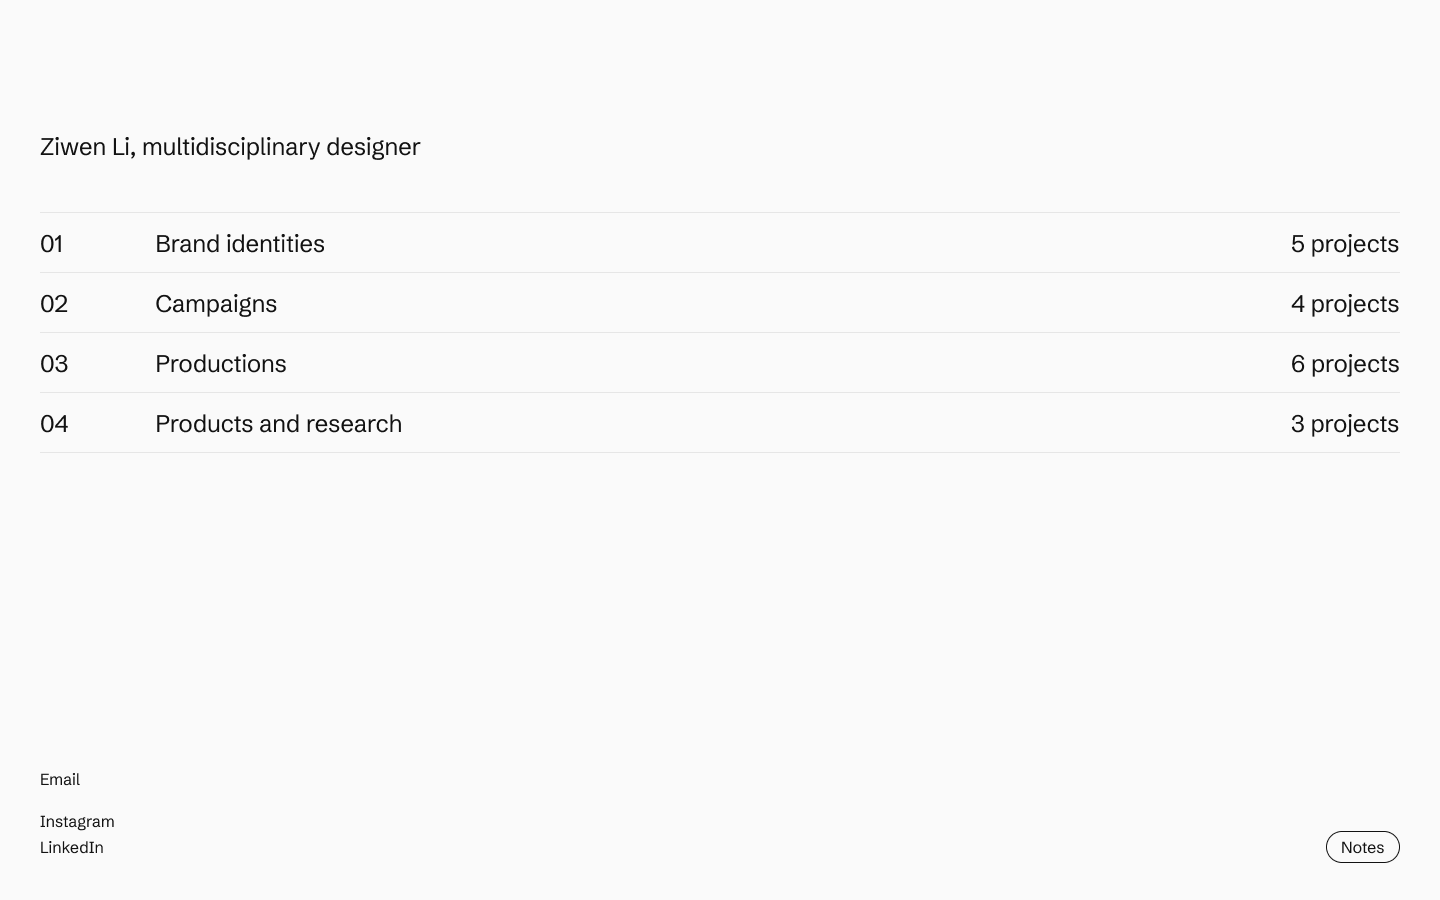
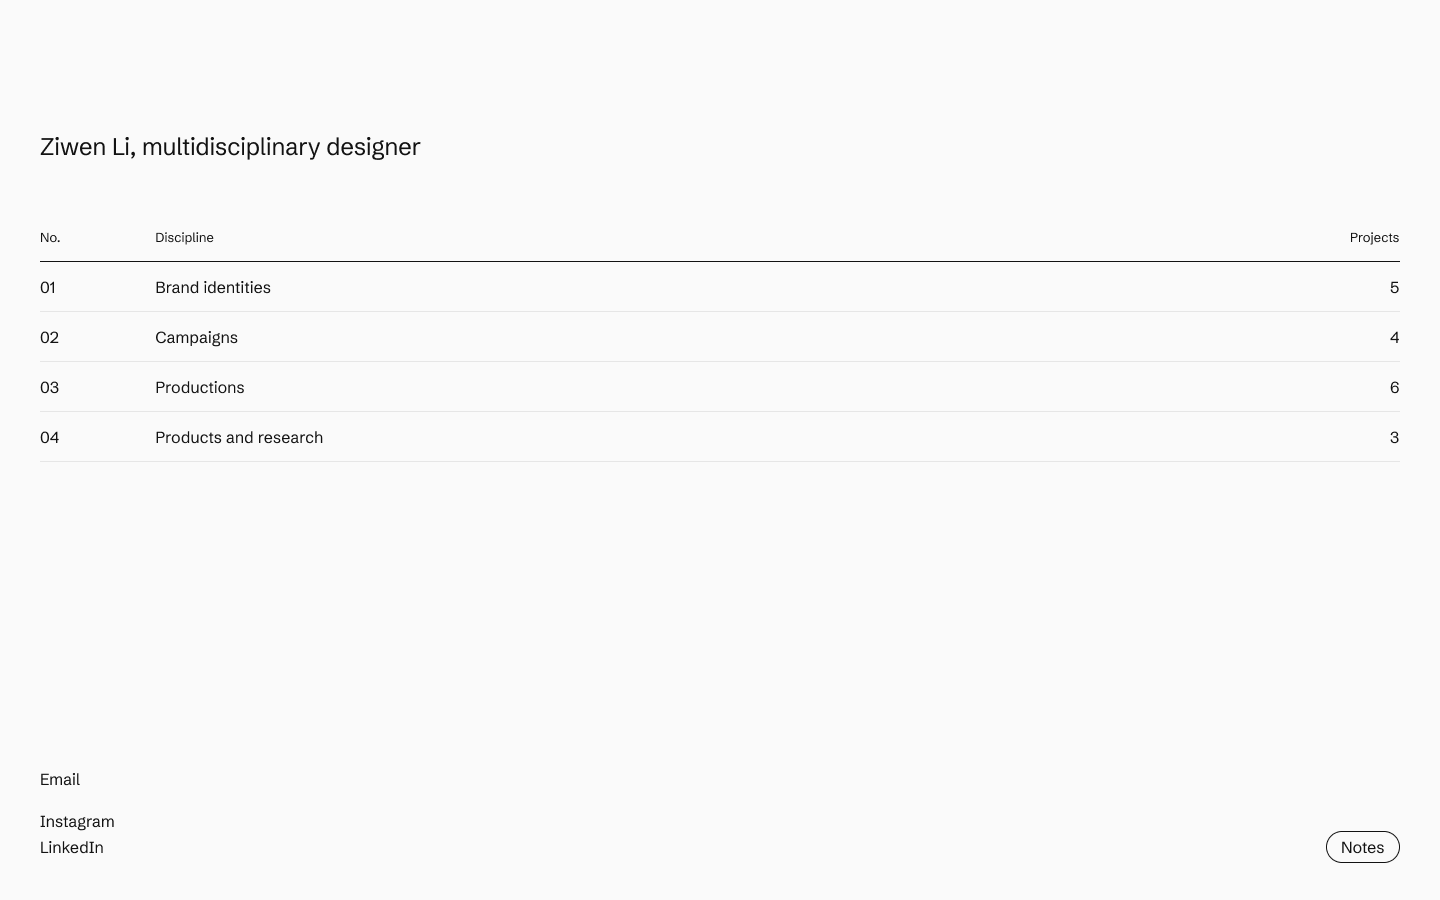
Home Index list matches project list size

diff --git a/docs/design-rules.md b/docs/design-rules.md
@@ -171,7 +171,7 @@ Figma：文字样式 `Desktop/*` 和 `Mobile/*`。代码：Tailwind 的默认字
 - 页面左右留白：桌面 40，平板 24，手机 16。
 - **[已定 2026-11-25]** 桌面 12 栏网格，栏间距 24，左右留白 40（1440 宽时每栏约 91px）；手机 4 栏，栏间距 16。所有元素的起点和宽度都对齐栏。
 - 首页：介绍占第 1 到 8 栏，离顶部 128（试过 40 太贴顶、96 和边距差得不够明显）；底部离底边 40：左下角是竖排、左对齐的联系方式（Email，空一行，Instagram、LinkedIn），Body 16，无下划线；右下角是 Index 描边胶囊按钮，右对齐第 12 栏；按钮里的文字和 LinkedIn 同一条基线（横向对齐看文字基线，不看外框），所以胶囊下沿比底部留白多出 3px。在 Index 页面，同一个按钮写 Notes。介绍字号 24，行距 1.5（36px）。
-- 首页 Index 模式（桌面）[草稿 2026-11-25]：离顶部 128 一行 “Ziwen Li, multidisciplinary designer”（24），下面 48 是首页介绍里那几个高亮关键词组成的列表：编号、关键词、项目数（右对齐），每行 60 高、24 字号，Hairline 分隔。点击进入领域页。底部和首页一样，按钮写 Notes。
+- 首页 Index 模式（桌面）[草稿 2026-11-25]：离顶部 128 一行 “Ziwen Li, multidisciplinary designer”（24），下面 48 是首页介绍里那几个高亮关键词组成的列表，大小和项目列表完全一样：表头 No. / Discipline / Projects（Small 13 + Ink 线），每行 50 高、Body 16，项目数右对齐第 12 栏，Hairline 分隔。点击进入领域页。底部和首页一样，按钮写 Notes。
 - 领域页 Index 模式：项目列表（No.、Project 第 2 栏、Discipline 第 7 栏、Context 第 10 栏、Year 右对齐第 12 栏），表头 Small 13 + Ink 线，每行 50 高、Body 16，Hairline 分隔；页面比一屏长时，底部跟在列表后 128。Figma 里的 “All projects / Index” 是这个模板。
 - 首页手机（390 × 844）：4 栏，左右留白 16；介绍字号 20（Mobile/Heading），行距 1.5（30px），离顶部 96；底部留白 32（避开手机底部的横条）；联系方式和 Index 的排法和桌面一样，Index 文字和 LinkedIn 同一条基线。手机没有 hover，关键词点击直接进入领域页。
 - 内容最大宽度 1440，普通正文段落最大宽度约 640（每行 60 到 75 个字符）；首页介绍例外，占 8 栏。
